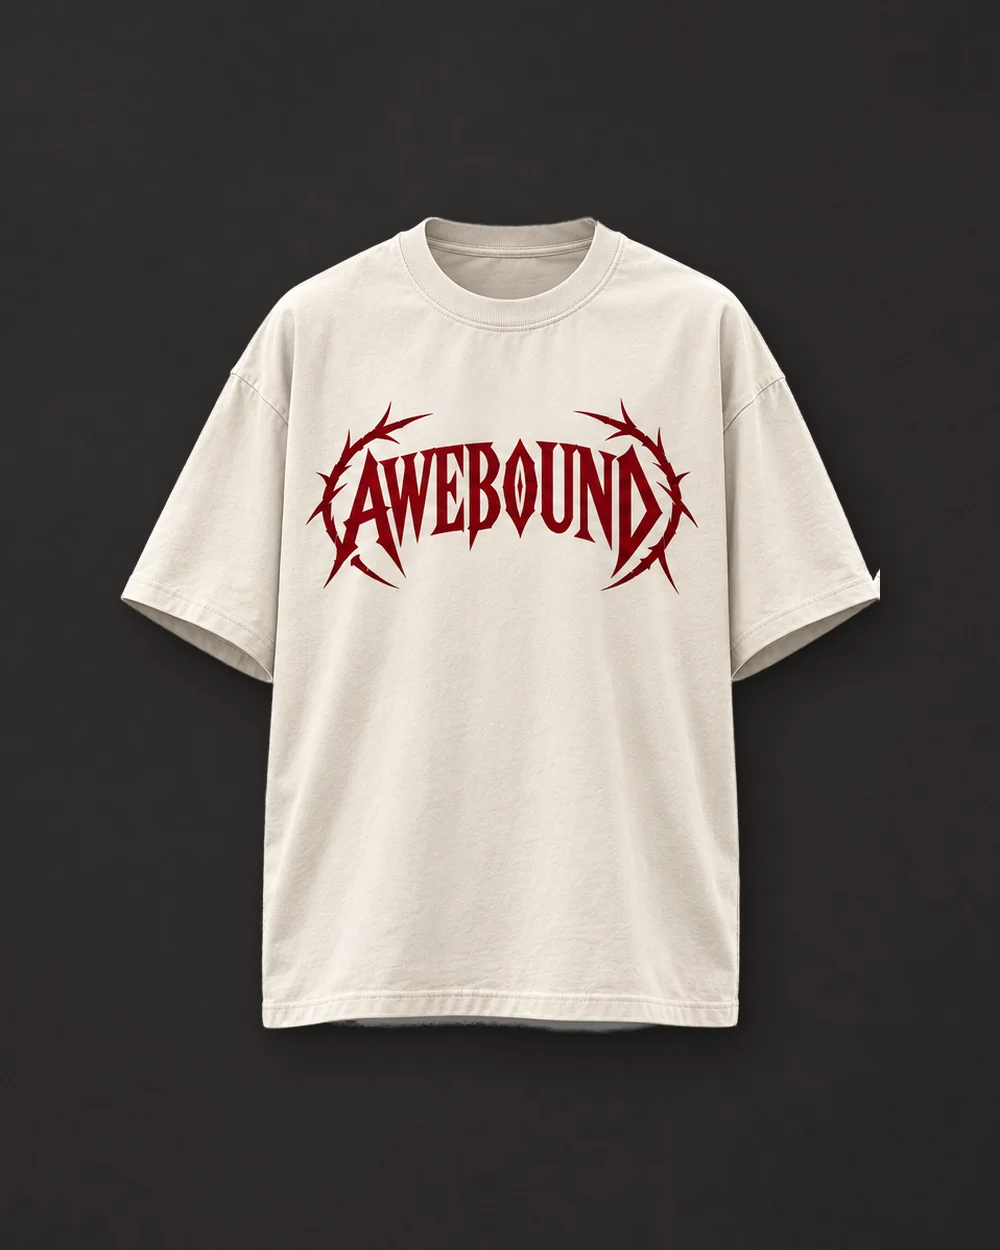
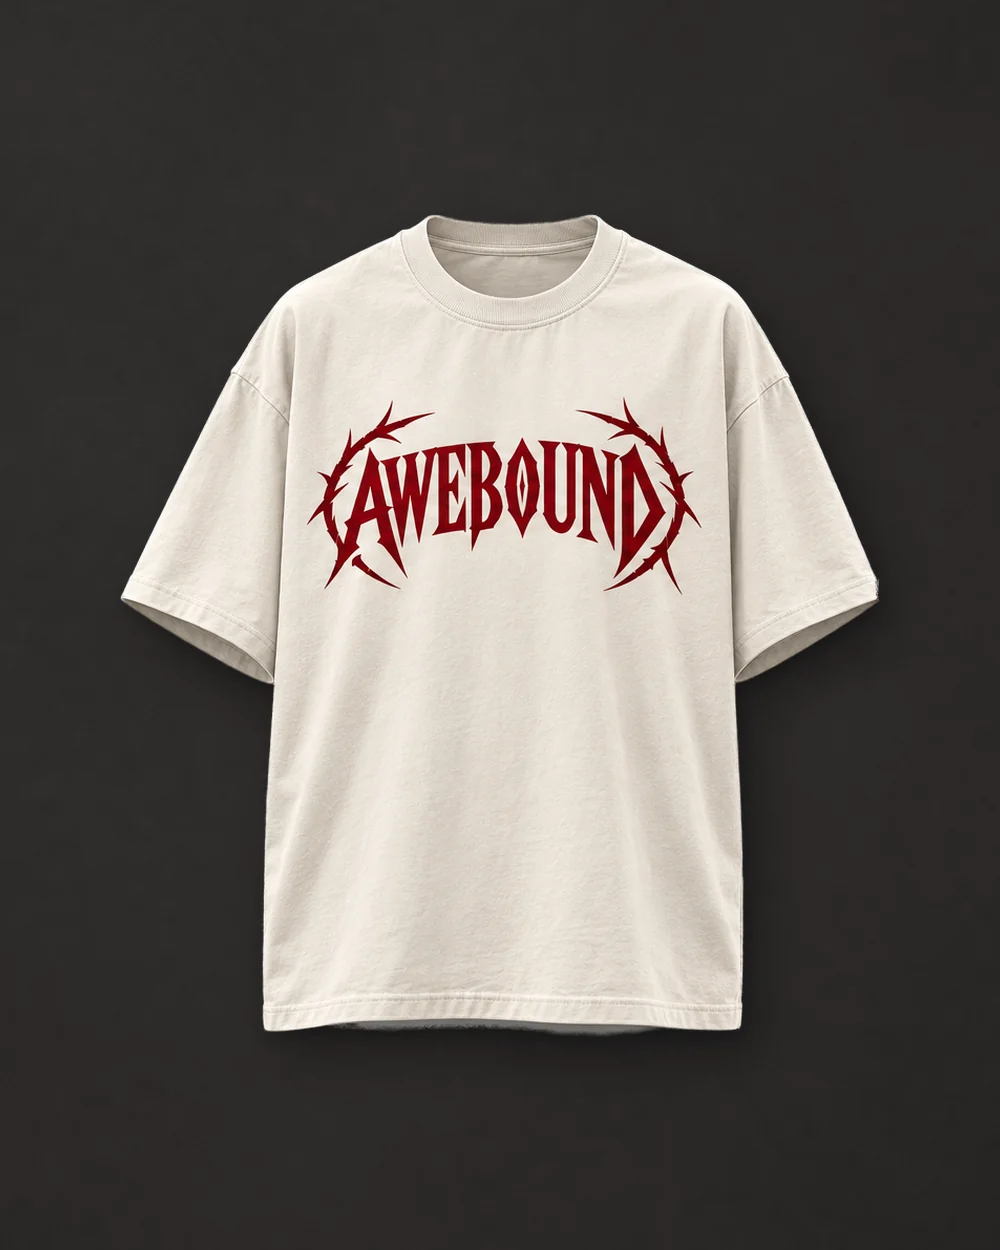
Feature Thorns to Lilies and To Live Is Christ; fix the sleeve shard
- Home: Thorns to Lilies is now the large hero image, and the two design
  stories are Thorns to Lilies and To Live Is Christ, To Die Is Gain
  (featured flags in the content file).
- The Thorns to Lilies front showed a sliver of the back view's sleeve:
  the two sleeves touch in the source sheet. cutout.py now separates
  touching garments along the narrowest point between them (watershed)
  and keeps each one's neighbour out of its matte.
- Stop tracking Python's __pycache__.

Claude-Session: https://claude.ai/code/session_01VmqVMxiDGTr2J5oF5LgYP4

diff --git a/assets/mockups/cutout.py b/assets/mockups/cutout.py
@@ -7,7 +7,7 @@ pixel's color is from that backdrop (light garments differ in warmth, dark ones 
 then the edge is refined with closed-form alpha matting, which also strips the grey backdrop out
 of soft edge pixels so no pale outline shows on a darker background.
 
-    pip install pymatting opencv-python-headless scipy pillow numpy
+    pip install pymatting opencv-python-headless scikit-image scipy pillow numpy
     python3 assets/mockups/cutout.py
 
 Then run compose.py to place the cutouts on their styled backgrounds.
@@ -20,6 +20,7 @@ import numpy as np
 from PIL import Image
 from pymatting import estimate_alpha_cf, estimate_foreground_ml
 from scipy import ndimage
+from skimage.segmentation import watershed
 
 HERE = Path(__file__).parent
 SOURCE = HERE / "source"
@@ -39,6 +40,9 @@ SHEETS: dict[str, dict] = {
     },
     "thorns-to-lilies": {
         "light": True,
+        # The two sleeves touch in this sheet, so the garments are split along the narrowest
+        # point between them instead of at the panel line.
+        "touching": True,
         "views": [("front", (10, 80, 768, 975)), ("back", (768, 80, 1530, 975))],
     },
     "stone-in-motion": {
@@ -86,7 +90,7 @@ def largest_component(mask: np.ndarray) -> np.ndarray:
     return labels == 1 + int(np.argmax(sizes))
 
 
-def garment_mask(rgb8: np.ndarray, light: bool) -> np.ndarray:
+def garment_mask(rgb8: np.ndarray, light: bool, everything: bool = False) -> np.ndarray:
     lab = cv2.cvtColor(rgb8, cv2.COLOR_RGB2LAB).astype(np.float32)
     lab[..., 0] *= 100 / 255
     lab[..., 1:] -= 128
@@ -100,16 +104,52 @@ def garment_mask(rgb8: np.ndarray, light: bool) -> np.ndarray:
         threshold = 11
     mask = dist > threshold
     mask = ndimage.binary_opening(mask, iterations=2)
-    mask = largest_component(mask)
+    if everything:
+        # Every garment in the crop: drop only specks and label text.
+        labels, count = ndimage.label(mask)
+        sizes = ndimage.sum(mask, labels, range(1, count + 1))
+        mask = np.isin(labels, 1 + np.flatnonzero(sizes > 0.05 * sizes.max()))
+    else:
+        mask = largest_component(mask)
     mask = ndimage.binary_closing(mask, iterations=6)
     return ndimage.binary_fill_holes(mask)
 
 
-def refine(rgb8: np.ndarray, mask: np.ndarray) -> np.ndarray:
-    """GrabCut tidies the rough mask's edge, then matting gives a soft, clean alpha."""
+def split_garments(slug: str, sheet: dict) -> dict[str, np.ndarray]:
+    """Separates garments that touch: a watershed on the distance to the background, seeded in
+    each view's box, so the cut falls at the narrowest point between them. Returns, per view,
+    the other garments' pixels in that view's crop."""
+    image = Image.open(SOURCE / f"{slug}.png").convert("RGB")
+    boxes = [box for _, box in sheet["views"]]
+    x0, y0 = min(b[0] for b in boxes), min(b[1] for b in boxes)
+    x1, y1 = max(b[2] for b in boxes), max(b[3] for b in boxes)
+    rgb8 = np.ascontiguousarray(np.asarray(image.crop((x0, y0, x1, y1))))
+    mask = garment_mask(rgb8, sheet["light"], everything=True)
+    dist = ndimage.distance_transform_edt(mask)
+    markers = np.zeros(mask.shape, np.int32)
+    for i, (l, t, r, b) in enumerate(boxes, start=1):
+        inside = np.zeros_like(mask)
+        inside[t - y0 : b - y0, l - x0 : r - x0] = True
+        y, x = np.unravel_index(np.argmax(np.where(inside, dist, 0)), dist.shape)
+        markers[y, x] = i
+    labels = watershed(-dist, markers, mask=mask)
+    others = {}
+    for i, (view, (l, t, r, b)) in enumerate(sheet["views"], start=1):
+        other = (labels > 0) & (labels != i)
+        others[view] = ndimage.binary_dilation(other, iterations=2)[t - y0 : b - y0, l - x0 : r - x0]
+    return others
+
+
+def refine(rgb8: np.ndarray, mask: np.ndarray, exclude: np.ndarray | None = None) -> np.ndarray:
+    """GrabCut tidies the rough mask's edge, then matting gives a soft, clean alpha.
+    `exclude` marks pixels that belong to another garment and must stay out."""
+    if exclude is not None:
+        mask = largest_component(mask & ~exclude)
     gc = np.where(mask, cv2.GC_PR_FGD, cv2.GC_PR_BGD).astype(np.uint8)
     gc[ndimage.binary_erosion(mask, iterations=14)] = cv2.GC_FGD
     gc[~ndimage.binary_dilation(mask, iterations=14)] = cv2.GC_BGD
+    if exclude is not None:
+        gc[exclude] = cv2.GC_BGD
     bgd, fgd = np.zeros((1, 65)), np.zeros((1, 65))
     bgr = cv2.cvtColor(rgb8, cv2.COLOR_RGB2BGR)
     cv2.grabCut(bgr, gc, None, bgd, fgd, 4, cv2.GC_INIT_WITH_MASK)
@@ -119,13 +159,22 @@ def refine(rgb8: np.ndarray, mask: np.ndarray) -> np.ndarray:
     trimap = np.full(hard.shape, 0.5)
     trimap[ndimage.binary_erosion(hard, iterations=3)] = 1.0
     trimap[~ndimage.binary_dilation(hard, iterations=3)] = 0.0
+    if exclude is not None:
+        trimap[exclude] = 0.0
     return estimate_alpha_cf(rgb8 / 255.0, trimap)
 
 
-def cut(slug: str, view: str, box: tuple[int, int, int, int], light: bool) -> Image.Image:
+def cut(
+    slug: str,
+    view: str,
+    box: tuple[int, int, int, int],
+    light: bool,
+    exclude: np.ndarray | None = None,
+) -> Image.Image:
     sheet = Image.open(SOURCE / f"{slug}.png").convert("RGB")
     rgb8 = np.ascontiguousarray(np.asarray(sheet.crop(box)))
-    alpha = np.clip(refine(rgb8, garment_mask(rgb8, light)), 0, 1)
+    mask = garment_mask(rgb8, light, everything=exclude is not None)
+    alpha = np.clip(refine(rgb8, mask, exclude), 0, 1)
     fg = estimate_foreground_ml(rgb8 / 255.0, alpha)
     out = np.dstack([np.clip(fg, 0, 1), alpha])
     img = Image.fromarray((out * 255).round().astype(np.uint8), "RGBA")
@@ -135,8 +184,9 @@ def cut(slug: str, view: str, box: tuple[int, int, int, int], light: bool) -> Im
 def main() -> None:
     CUTOUTS.mkdir(exist_ok=True)
     for slug, sheet in SHEETS.items():
+        others = split_garments(slug, sheet) if sheet.get("touching") else {}
         for view, box in sheet["views"]:
-            img = cut(slug, view, box, sheet["light"])
+            img = cut(slug, view, box, sheet["light"], others.get(view))
             path = CUTOUTS / f"{slug}-{view}.webp"
             img.save(path, "WEBP", lossless=True, method=6)
             print(path.relative_to(HERE), img.size, flush=True)

diff --git a/apps/web/AGENTS.md b/apps/web/AGENTS.md
@@ -55,7 +55,7 @@ src/
 - **Motion**: never hide words. `<Reveal>` is CSS only: a short scroll-linked rise that starts at 40% opacity, so text is readable without JavaScript, in browsers without scroll-driven animation and with reduced motion. The hero rises in 420ms; the Behold name opens from the center as it scrolls in; design stories draw their line art (`motion/react`) while the words stay still. Anchors land below the header (`scroll-margin-top` on every `[id]`). Round computed SVG coordinates (`toFixed`) so server and client render the same markup.
 - **React 19 lint rules**: don't call setState synchronously in effects. Adjust state during render when a prop changes (see `product-grid.tsx`, `site-header.tsx`).
 - **Images**: product images are plain `<img>` (photos come from Fourthwall's CDN). `public/products/<slug>/` holds styled mockups (garment cutouts on matte stone, made by `assets/mockups/compose.py`): the listing view shows the whole garment, `detail` is the artwork close-up used by the design stories. Previews and products without Fourthwall photos use them.
-- **A new release**: add a collection (slug, name, number, tagline, story, scriptureRef) and its products to `catalog.json`, each with a Scripture record (exact NIV and KJV text) and a design story (theme, call, motif, art, meaning). Latest Drop, the home page, Collections and the shop selector pick it up. `featured: true` picks the two home design stories.
+- **A new release**: add a collection (slug, name, number, tagline, story, scriptureRef) and its products to `catalog.json`, each with a Scripture record (exact NIV and KJV text) and a design story (theme, call, motif, art, meaning). Latest Drop, the home page, Collections and the shop selector pick it up. `featured: true` picks the two home design stories and the hero pieces (the first featured piece in release order is shown largest; the piece carrying the release verse fills the third spot).
 - **Previews**: a content entry with no Fourthwall product is listed with `preview: true` (content price, sizes and mockups; SKUs like `A3-B01-FADED-BLACK-M`). The product page says ordering isn't open and offers "Save to bag"; the bag explains it only saves selections and shows a notify form instead of checkout; `startCheckout` refuses preview lines.
 - **Motifs** (`features/home/motifs.tsx`): line art drawn in the margin of a box 18% larger than the image (`.story-plate`), driven by a 0–1 progress. No flames, embers or shake.
 
